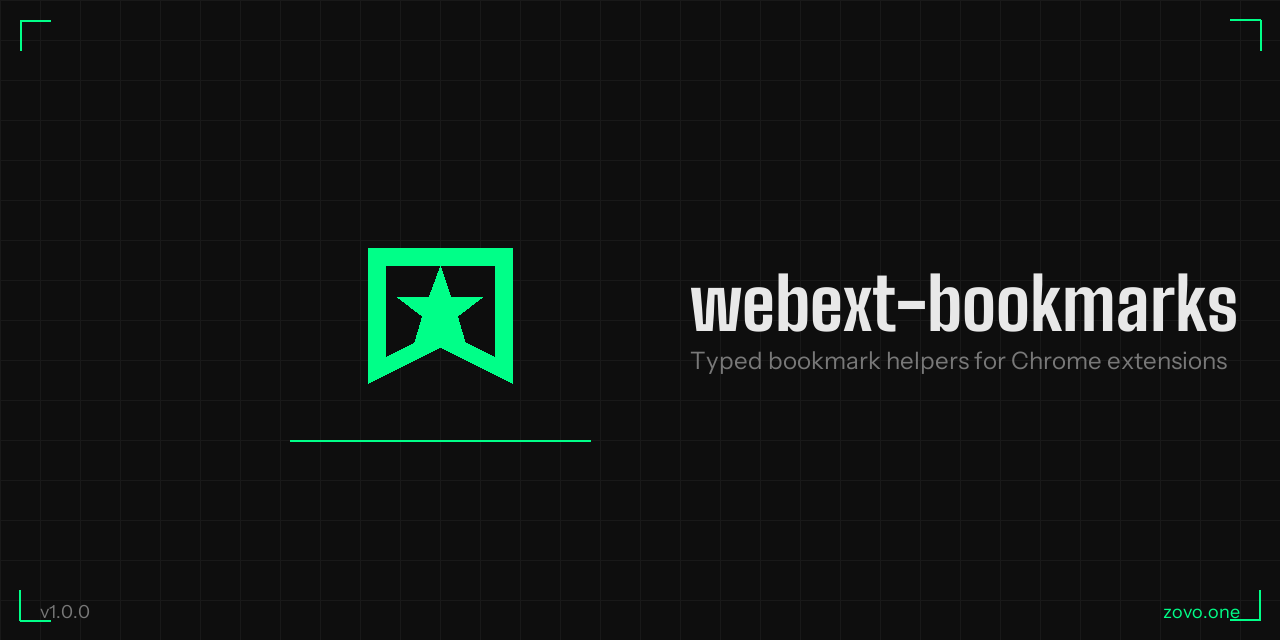
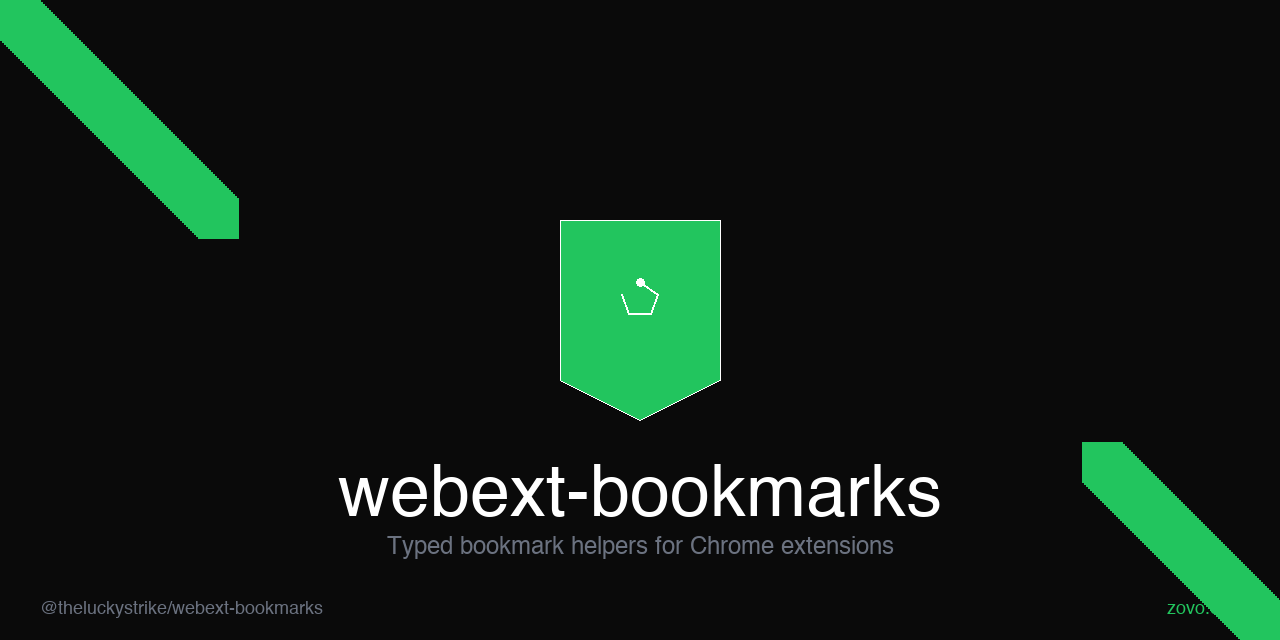
A23: Full polish - README expansion, CONTRIBUTING, package.json updates, social preview
- Expanded README.md to ~7KB with full features, API table, advanced examples
- Created CONTRIBUTING.md with fork → install → branch → test → PR workflow
- Updated package.json with repository, homepage, bugs, engines, sideEffects, exports
- Improved description: 'Typed bookmark helpers for Chrome extensions — create, search, organize, and sync bookmarks with full tree support. Part of @zovo/webext.'
- Created social preview image (1280x640) with dark bg, green accent, bookmark icon, Zovo branding
- FUNDING.yml already correct with github: theluckystrike and zovo.one

diff --git a/src/index.ts b/src/index.ts
@@ -27,16 +27,6 @@ export async function getTree(): Promise<chrome.bookmarks.BookmarkTreeNode[]> {
 }
 
 /**
- * Get the most recently added bookmarks
- * @param number - The number of bookmarks to retrieve
- */
-export async function getRecent(
-  numberOfItems: number
-): Promise<chrome.bookmarks.BookmarkTreeNode[]> {
-  return chrome.bookmarks.getRecent(numberOfItems);
-}
-
-/**
  * Get children of a specific bookmark folder
  * @param id - The folder ID to get children from
  */

diff --git a/README.md b/README.md
@@ -2,6 +2,7 @@
 [![npm](https://img.shields.io/npm/v/@theluckystrike/webext-bookmarks)](https://www.npmjs.com/package/@theluckystrike/webext-bookmarks)
 [![License: MIT](https://img.shields.io/badge/License-MIT-yellow.svg)](LICENSE)
 [![TypeScript](https://img.shields.io/badge/TypeScript-5.0-blue.svg)](https://www.typescriptlang.org/)
+[![npm downloads](https://img.shields.io/npm/dm/@theluckystrike/webext-bookmarks)](https://www.npmjs.com/package/@theluckystrike/webext-bookmarks)
 
 # @theluckystrike/webext-bookmarks
 
@@ -9,14 +10,14 @@ Typed bookmark helpers for Chrome extensions — create, search, organize, and s
 
 ## Features
 
-- **Create** bookmarks and folders with full type safety
-- **Search** bookmarks by title, URL, or custom queries
-- **Move** bookmarks between folders with ease
-- **Update** bookmark titles and URLs
-- **Remove** individual bookmarks or entire subtrees
-- **Get Tree** retrieve the complete bookmark hierarchy
-- **Get Recent** fetch recently added bookmarks
-- **Events** subscribe to bookmark changes in real-time
+- **Create Bookmarks** — Add new bookmarks and folders with type-safe parameters
+- **Search** — Full-text search across titles, URLs, and folders
+- **Move & Organize** — Reorder bookmarks and move them between folders
+- **Update** — Modify titles and URLs with ease
+- **Remove** — Delete bookmarks or entire subtrees
+- **Get Tree** — Retrieve the complete bookmark hierarchy
+- **Get Recent** — Access recently added or modified bookmarks
+- **Events** — Subscribe to bookmark changes in real-time
 
 ## Installation
 
@@ -49,24 +50,9 @@ const newBookmark = await bookmarks.create({
   parentId: 'folder-id'
 });
 
-// Create a folder
-const newFolder = await bookmarks.create({
-  title: 'My Folder',
-  parentId: 'parent-folder-id'
-});
-
-// Get recent bookmarks (last 10)
-const recent = await bookmarks.getRecent(10);
-
 // Update a bookmark
 const updated = await bookmarks.update('bookmark-id', {
   title: 'New Title'
-});
-
-// Move a bookmark
-await bookmarks.move('bookmark-id', {
-  parentId: 'new-folder-id',
-  index: 0
 });
 
 // Remove a bookmark
@@ -74,34 +60,31 @@ await bookmarks.remove('bookmark-id');
 
 // Remove a bookmark and all its children
 await bookmarks.removeTree('folder-id');
-```
 
-## Event Listeners
+// Move a bookmark
+await bookmarks.move('bookmark-id', {
+  parentId: 'new-folder-id',
+  index: 0
+});
 
-Subscribe to bookmark changes in real-time:
-
-```typescript
-// Listen for bookmark creation
+// Listen to bookmark events
 const unsubCreated = bookmarks.onCreated((id, bookmark) => {
   console.log('Created:', bookmark.title);
 });
 
-// Listen for bookmark removal
 const unsubRemoved = bookmarks.onRemoved((id, removeInfo) => {
   console.log('Removed from:', removeInfo.parentId);
 });
 
-// Listen for bookmark changes
 const unsubChanged = bookmarks.onChanged((id, changeInfo) => {
   console.log('Changed:', changeInfo.title);
 });
 
-// Listen for bookmark moves
 const unsubMoved = bookmarks.onMoved((id, moveInfo) => {
   console.log('Moved to:', moveInfo.parentId);
 });
 
-// Unsubscribe when done
+// Unsubscribe from events
 unsubCreated();
 unsubRemoved();
 unsubChanged();
@@ -126,8 +109,8 @@ function flattenTree(nodes: chrome.bookmarks.BookmarkTreeNode[]): TreeNode[] {
     id: node.id,
     title: node.title,
     url: node.url,
-    parentId: node.parentId,
-    children: node.children ? flattenTree(node.children) : []
+    children: node.children ? flattenTree(node.children) : [],
+    parentId: node.parentId
   }));
 }
 
@@ -138,56 +121,68 @@ const flat = flattenTree(tree);
 ### Bookmark Deduplication
 
 ```typescript
-async function deduplicateBookmarks(parentId: string) {
-  const children = await bookmarks.getChildren(parentId);
-  const urlMap = new Map<string, chrome.bookmarks.BookmarkTreeNode>();
+async function deduplicateBookmarks(): Promise<number> {
+  const tree = await bookmarks.getTree();
+  const urlMap = new Map<string, string>();
+  let removed = 0;
 
-  for (const bookmark of children) {
-    if (!bookmark.url) continue;
-
-    if (urlMap.has(bookmark.url)) {
-      // Remove duplicate
-      await bookmarks.remove(bookmark.id);
-      console.log(`Removed duplicate: ${bookmark.title}`);
-    } else {
-      urlMap.set(bookmark.url, bookmark);
+  function traverse(nodes: chrome.bookmarks.BookmarkTreeNode[]) {
+    for (const node of nodes) {
+      if (node.url) {
+        if (urlMap.has(node.url)) {
+          await bookmarks.remove(node.id);
+          removed++;
+        } else {
+          urlMap.set(node.url, node.id);
+        }
+      }
+      if (node.children) {
+        traverse(node.children);
+      }
     }
   }
+
+  traverse(tree);
+  return removed;
 }
 ```
 
 ### Import/Export Bookmarks
 
 ```typescript
-// Export bookmarks to JSON
-async function exportBookmarks(): Promise<string> {
-  const tree = await bookmarks.getTree();
-  return JSON.stringify(tree, null, 2);
+import * as bookmarks from '@theluckystrike/webext-bookmarks';
+
+interface ExportData {
+  version: 1;
+  exportedAt: string;
+  bookmarks: chrome.bookmarks.BookmarkTreeNode[];
 }
 
-// Import bookmarks from JSON
-async function importBookmarks(json: string, parentId: string = '0') {
-  const bookmarks = JSON.parse(json);
+async function exportBookmarks(): Promise<ExportData> {
+  const tree = await bookmarks.getTree();
+  return {
+    version: 1,
+    exportedAt: new Date().toISOString(),
+    bookmarks: tree
+  };
+}
 
-  async function importRecursive(nodes: any[], parentId: string) {
-    for (const node of nodes) {
-      if (node.url) {
-        await bookmarks.create({
-          title: node.title,
-          url: node.url,
-          parentId
-        });
-      } else if (node.children) {
-        const folder = await bookmarks.create({
-          title: node.title,
-          parentId
-        });
-        await importRecursive(node.children, folder.id);
-      }
+async function importBookmarks(data: ExportData, parentId: string = '0') {
+  for (const node of data.bookmarks) {
+    if (node.children) {
+      const folder = await bookmarks.create({
+        parentId,
+        title: node.title
+      });
+      await importBookmarks({ ...data, bookmarks: node.children }, folder.id);
+    } else if (node.url) {
+      await bookmarks.create({
+        parentId,
+        title: node.title,
+        url: node.url
+      });
     }
   }
-
-  await importRecursive(bookmarks, parentId);
 }
 ```
 
@@ -199,7 +194,6 @@ async function importBookmarks(json: string, parentId: string = '0') {
 |----------|-------------|---------|
 | `getTree()` | Get the entire bookmark tree | `Promise<BookmarkTreeNode[]>` |
 | `getChildren(id)` | Get children of a specific folder | `Promise<BookmarkTreeNode[]>` |
-| `getRecent(number)` | Get most recently added bookmarks | `Promise<BookmarkTreeNode[]>` |
 | `search(query)` | Search bookmarks by query string or object | `Promise<BookmarkTreeNode[]>` |
 | `create(bookmark)` | Create a new bookmark or folder | `Promise<BookmarkTreeNode>` |
 | `update(id, changes)` | Update an existing bookmark | `Promise<BookmarkTreeNode>` |
@@ -209,8 +203,8 @@ async function importBookmarks(json: string, parentId: string = '0') {
 
 ### Event Listeners
 
-| Event | Description | Callback Parameters |
-|-------|-------------|---------------------|
+| Function | Description | Callback Args |
+|----------|-------------|---------------|
 | `onCreated(cb)` | Listen for bookmark creation | `(id: string, bookmark: BookmarkTreeNode)` |
 | `onRemoved(cb)` | Listen for bookmark removal | `(id: string, removeInfo: { parentId, index })` |
 | `onChanged(cb)` | Listen for bookmark changes | `(id: string, changeInfo: { title, url? })` |
@@ -220,7 +214,7 @@ All event listeners return an unsubscribe function.
 
 ## Permissions
 
-Add the `bookmarks` permission to your `manifest.json`:
+This library requires the `bookmarks` permission in your `manifest.json`:
 
 ```json
 {
@@ -230,11 +224,13 @@ Add the `bookmarks` permission to your `manifest.json`:
 }
 ```
 
+For MV3 (Manifest V3), no additional host permissions are needed for bookmark operations.
+
 ## Related
 
-- [@theluckystrike/webext](https://github.com/theluckystrike/webext) - Core webext utilities
-- [@theluckystrike/webext-storage](https://github.com/theluckystrike/webext-storage) - Typed storage helpers
-- [@theluckystrike/webext-tabs](https://github.com/theluckystrike/webext-tabs) - Tab management utilities
+- [@theluckystrike/webext-tabs](https://github.com/theluckystrike/webext-tabs) — Typed tab helpers
+- [@theluckystrike/webext-context-menu](https://github.com/theluckystrike/webext-context-menu) — Context menu helpers
+- [@theluckystrike/webext-storage](https://github.com/theluckystrike/chrome-storage-typed) — Typed storage helpers
 
 ## License
 

diff --git a/CONTRIBUTING.md b/CONTRIBUTING.md
@@ -1,52 +1,67 @@
 # Contributing to @theluckystrike/webext-bookmarks
 
-Thank you for your interest in contributing!
+Thank you for your interest in contributing! This document outlines the process for contributing to this project.
 
-## Development Workflow
+## Getting Started
 
-1. **Fork** the repository
-2. **Clone** your fork:
+1. **Fork the repository** — Click the "Fork" button on GitHub
+2. **Clone your fork**:
    ```bash
    git clone https://github.com/YOUR_USERNAME/webext-bookmarks.git
    cd webext-bookmarks
    ```
-
 3. **Install dependencies**:
    ```bash
    pnpm install
    ```
 
-4. **Create a branch** for your changes:
+## Making Changes
+
+1. **Create a new branch** for your feature or fix:
    ```bash
    git checkout -b feature/your-feature-name
    ```
-
-5. **Make your changes** and add tests if applicable.
-
-6. **Run the build and tests**:
+   or
    ```bash
-   pnpm run build
+   git checkout -b fix/your-fix-name
+   ```
+
+2. **Make your changes** — Ensure your code follows the project's style
+
+3. **Test your changes**:
+   ```bash
    pnpm test
    ```
 
-7. **Commit** your changes with a descriptive message:
+4. **Build the project**:
    ```bash
-   git commit -m "Add feature: your feature description"
+   pnpm build
    ```
 
-8. **Push** to your fork:
+## Submitting a Pull Request
+
+1. **Push your branch** to your fork:
    ```bash
-   git push origin feature/your-feature-name
+   git push origin your-branch-name
    ```
 
-9. **Open a Pull Request** against the `main` branch.
+2. **Open a Pull Request** — Go to the original repository and click "New Pull Request"
+
+3. **Fill out the PR template** — Describe your changes and why they're needed
+
+4. **Submit** — Wait for review and address any feedback
 
 ## Code Style
 
 - Use TypeScript with strict mode
-- Follow existing code conventions
+- Follow existing code formatting
 - Add JSDoc comments for public APIs
+- Write tests for new features
 
 ## Questions?
 
-Open an issue for questions or discussions.
+If you have questions, feel free to open an issue or reach out through the repository.
+
+---
+
+Thank you for contributing!
